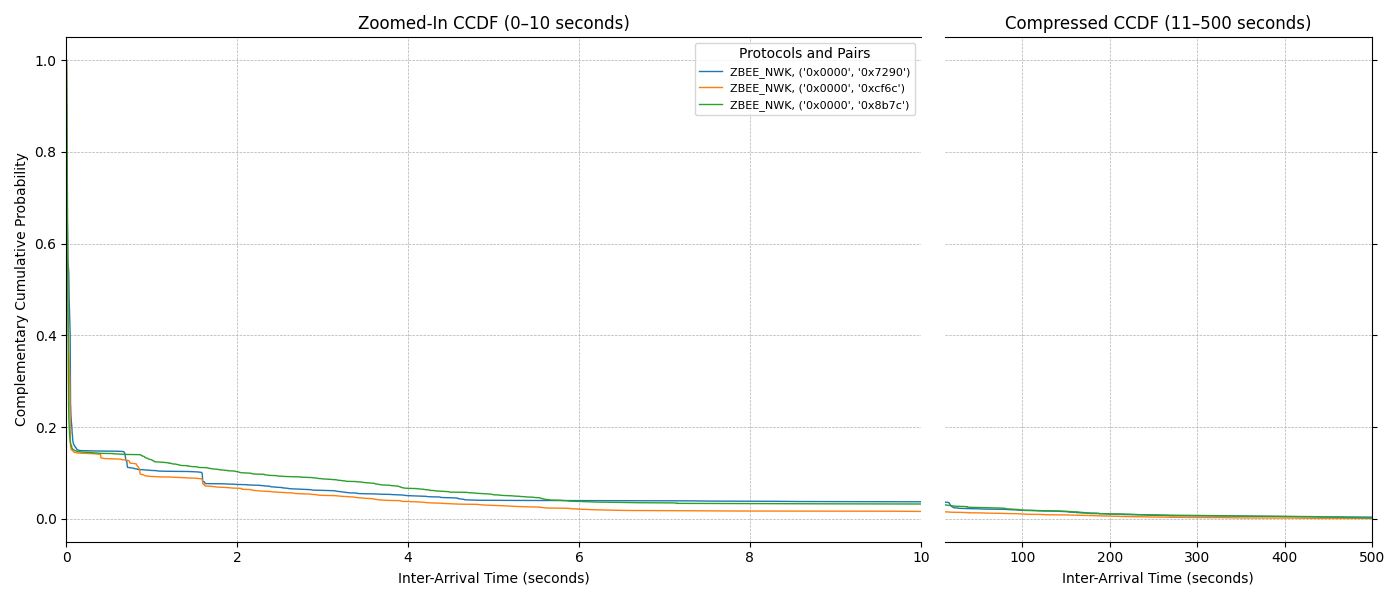
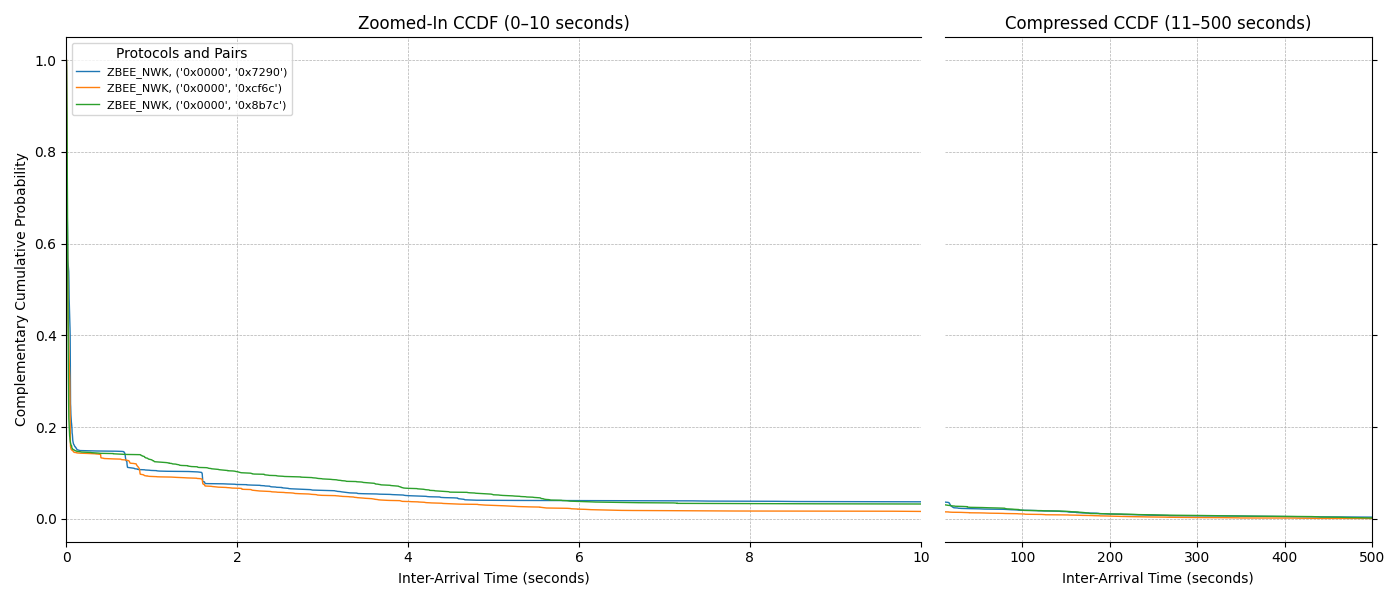
task 1 last update

Changed region(s): [[0.4914, 0.06, 0.645, 0.21], [0.0614, 0.06, 0.215, 0.18]]

diff --git a/Assignment_2/task1/codes/task1a.py b/Assignment_2/task1/codes/task1a.py
@@ -1,6 +1,5 @@
 import pyshark
 from collections import Counter
-import os
 
 def calculate_fractions(counter, total_packet):
     fractions = {}
@@ -36,7 +35,7 @@ def print_and_save_results(file, header, total_packets, protocol_counter, protoc
     file.write(f"Protocol Fractions: {protocol_fractions}\n")
     file.write(f"Message Type Counts: {message_type_counter}\n")
     file.write(f"Message Type Fractions: {message_type_fractions}\n")
-    file.write("\n" + "=" * 40 + "\n")
+    file.write("\n" + "=" * 50 + "\n")
 
     print(header)
     print("Total Packets:", total_packets)
@@ -44,23 +43,17 @@ def print_and_save_results(file, header, total_packets, protocol_counter, protoc
     print("Protocol Fractions:", protocol_fractions)
     print("Message Type Counts:", message_type_counter)
     print("Message Type Fractions:", message_type_fractions)
-    print("\n" + "=" * 40 + "\n")
+    print("\n" + "=" * 50 + "\n")
 
-# Base directory for the files
 base_directory = "../pcap"
-
 file_names = ['scenario1.pcapng',
               'scenario2.pcapng',
               'scenario3.pcapng',
               'scenario4.pcapng',
               'scenario5.pcapng',
               'scenario6.pcapng']
+file_paths = [f"{base_directory}/{file_name}" for file_name in file_names]
 
-# Prepend the base directory to each file name
-file_paths = [os.path.join(base_directory, file_name) for file_name in file_names]
-
-
-# init cumulative counters
 cumulative_protocol_counter = Counter()
 cumulative_message_type_counter = Counter()
 cumulative_total_packets = 0
@@ -70,21 +63,16 @@ with open("../output/task_1a_analysis_results.txt", "w") as file:
 
         protocol_counter, message_type_counter, total_packets = process_file(file_path)
 
-        # calc fractions for the specific file
         protocol_fractions = calculate_fractions(protocol_counter, total_packets)
         message_type_fractions = calculate_fractions(message_type_counter, total_packets)
 
-        header = f"Results for {file_path}"
-        print_and_save_results(file, header, total_packets, protocol_counter, protocol_fractions, message_type_counter, message_type_fractions)
+        print_and_save_results(file, f"Results for {file_path}", total_packets, protocol_counter, protocol_fractions, message_type_counter, message_type_fractions)
 
-        # update cumulative counters
         cumulative_protocol_counter.update(protocol_counter)
         cumulative_message_type_counter.update(message_type_counter)
         cumulative_total_packets += total_packets
 
-    # calc fractions for cumulative results
     cumulative_protocol_fractions = calculate_fractions(cumulative_protocol_counter, cumulative_total_packets)
     cumulative_message_type_fractions = calculate_fractions(cumulative_message_type_counter, cumulative_total_packets)
 
-    header = "Cumulative Results Across All Scenarios"
-    print_and_save_results(file, header, cumulative_total_packets, cumulative_protocol_counter, cumulative_protocol_fractions, cumulative_message_type_counter, cumulative_message_type_fractions)
+    print_and_save_results(file, "Cumulative Results Across All Scenarios", cumulative_total_packets, cumulative_protocol_counter, cumulative_protocol_fractions, cumulative_message_type_counter, cumulative_message_type_fractions)

diff --git a/Assignment_2/task3/codes/task3.py b/Assignment_2/task3/codes/task3.py
@@ -65,36 +65,6 @@ def generate_feature_vectors(cumulative_df, m_values, input_file_name):
         print(f"Feature vector for m={m} saved to {output_file_path}")
 
 
-def plot_feature_vectors(cumulative_df, m_values, input_file_name):
-    # Ensure the output directory exists
-    output_directory = "../output/feature_vector_plots"
-    if not os.path.exists(output_directory):
-        os.makedirs(output_directory)
-
-    # Extract the base name without the extension
-    base_name = os.path.splitext(os.path.basename(input_file_name))[0]
-
-    plt.figure(figsize=(10, 6))
-
-    for m in m_values:
-        indices = np.linspace(0, len(cumulative_df) - 1, m).astype(int)
-        sampled_features = cumulative_df.iloc[indices]
-
-        plt.plot(sampled_features["AbsoluteSum"], sampled_features["CumulativeSum"], linestyle='-', linewidth=1, label=f"m={m}")
-
-    plt.title("Feature Vectors for Communication Flow")
-    plt.xlabel("Absolute Sum")
-    plt.ylabel("Cumulative Sum")
-    plt.legend()
-
-    # Save the plot to the output directory
-    output_file_path = os.path.join(output_directory, f"{base_name}_feature_vectors_plot.png")
-    plt.savefig(output_file_path)
-    print(f"Plot saved to {output_file_path}")
-
-    plt.show()
-
-
 def plot_feature_vectors_side_by_side(cumulative_df, m_values, input_file_name):
     # Ensure the output directory exists
     output_directory = "../output/feature_vector_plots"
@@ -116,13 +86,7 @@ def plot_feature_vectors_side_by_side(cumulative_df, m_values, input_file_name):
         sampled_features = cumulative_df.iloc[indices]
 
         # Plot data on the current subplot
-        ax.plot(
-            sampled_features["AbsoluteSum"],
-            sampled_features["CumulativeSum"],
-            marker=".",
-            markersize=4,
-            label=f"m={m}"
-        )
+        ax.plot(sampled_features["AbsoluteSum"], sampled_features["CumulativeSum"], marker=".", markersize=4, label=f"m={m}")
 
         ax.set_title(f"m={m}")
         ax.set_xlabel("Absolute Sum")
@@ -140,10 +104,7 @@ def plot_feature_vectors_side_by_side(cumulative_df, m_values, input_file_name):
     plt.show()
 
 
-# Base directory for the files
 base_directory = "../dataset/packet_size_and_direction"
-
-# File names extracted from the image
 file_names = [
     "scenario1_doorsensor_to_coordinator.csv",
     "scenario1_ledvance_to_coordinator.csv",
@@ -166,9 +127,7 @@ file_names = [
     "scenario6_nedisdoorsensor_to_coordinator.csv",
     "scenario6_osarm_to_coordinator.csv"
 ]
-
-# Prepend the base directory to each file name
-file_paths = [os.path.join(base_directory, file_name) for file_name in file_names]
+file_paths = [f"{base_directory}/{file_name}" for file_name in file_names]
 
 # Display available files
 print("Available Files:")
@@ -190,6 +149,5 @@ if 0 <= selected_index < len(file_paths):
     m_values = [90, 150, 200]
     generate_feature_vectors(cumulative_df, m_values, file_path)
     plot_feature_vectors_side_by_side(cumulative_df, m_values, file_path)
-    plot_feature_vectors(cumulative_df, m_values, file_path)
 else:
     print("Invalid selection. Please try again.")

diff --git a/Assignment_2/task1/codes/task1b1c.py b/Assignment_2/task1/codes/task1b1c.py
@@ -7,6 +7,11 @@ import os
 os.makedirs("../output/plots", exist_ok=True)
 
 def process_packet_lengths(packet, packet_lengths):
+
+    protocol = packet.highest_layer
+    if protocol == '_WS.MALFORMED':
+        return
+
     protocol = packet.highest_layer
     packet_length = int(packet.length)
     packet_lengths[protocol].append(packet_length)
@@ -17,7 +22,7 @@ def process_inter_arrival_times(packet, device_addresses, previous_timestamps, i
         src_addr = packet.zbee_nwk.src
         dst_addr = packet.zbee_nwk.dst
 
-        # special handling for scenario 3
+        # special case for scenario 3
         if motion_sensor_addresses is not None:
             if src_addr in motion_sensor_addresses:
                 src_addr = "MotionSensor"
@@ -65,6 +70,10 @@ def plot_cdf(packet_lengths, scenario_name):
     all_packet_sizes = []
 
     for protocol, lengths in packet_lengths.items():
+
+        if protocol == '_WS.MALFORMED':
+            continue
+
         if len(lengths) > 0:
             sorted_lengths = np.sort(lengths)
             cdf = np.arange(1, len(sorted_lengths) + 1) / len(sorted_lengths)
@@ -79,7 +88,7 @@ def plot_cdf(packet_lengths, scenario_name):
     plt.title('Cumulative Distribution Function (CDF) of Packet Sizes by Protocol')
     plt.xlabel('Packet Size (bytes)')
     plt.ylabel('Cumulative Probability')
-    plt.legend(title="Protocols", loc='best')
+    plt.legend(title="Protocols", loc='lower right')
     plt.grid(True)
     plt.savefig(f"../output/plots/scenario_{scenario_name}_packet_sizes_cdf.png")
     plt.show()
@@ -111,7 +120,7 @@ def plot_ccdf(inter_arrival_times, scenario_name):
     ax1.yaxis.tick_left()
     ax2.yaxis.tick_right()
 
-    ax1.legend(loc="upper right", fontsize=8, title="Protocols and Pairs")
+    ax1.legend(loc="upper left", fontsize=8, title="Protocols and Pairs")
     plt.tight_layout()
     plt.savefig(f"../output/plots/scenario_{scenario_name}_inter_arrival_times_ccdf.png")
     plt.show()
